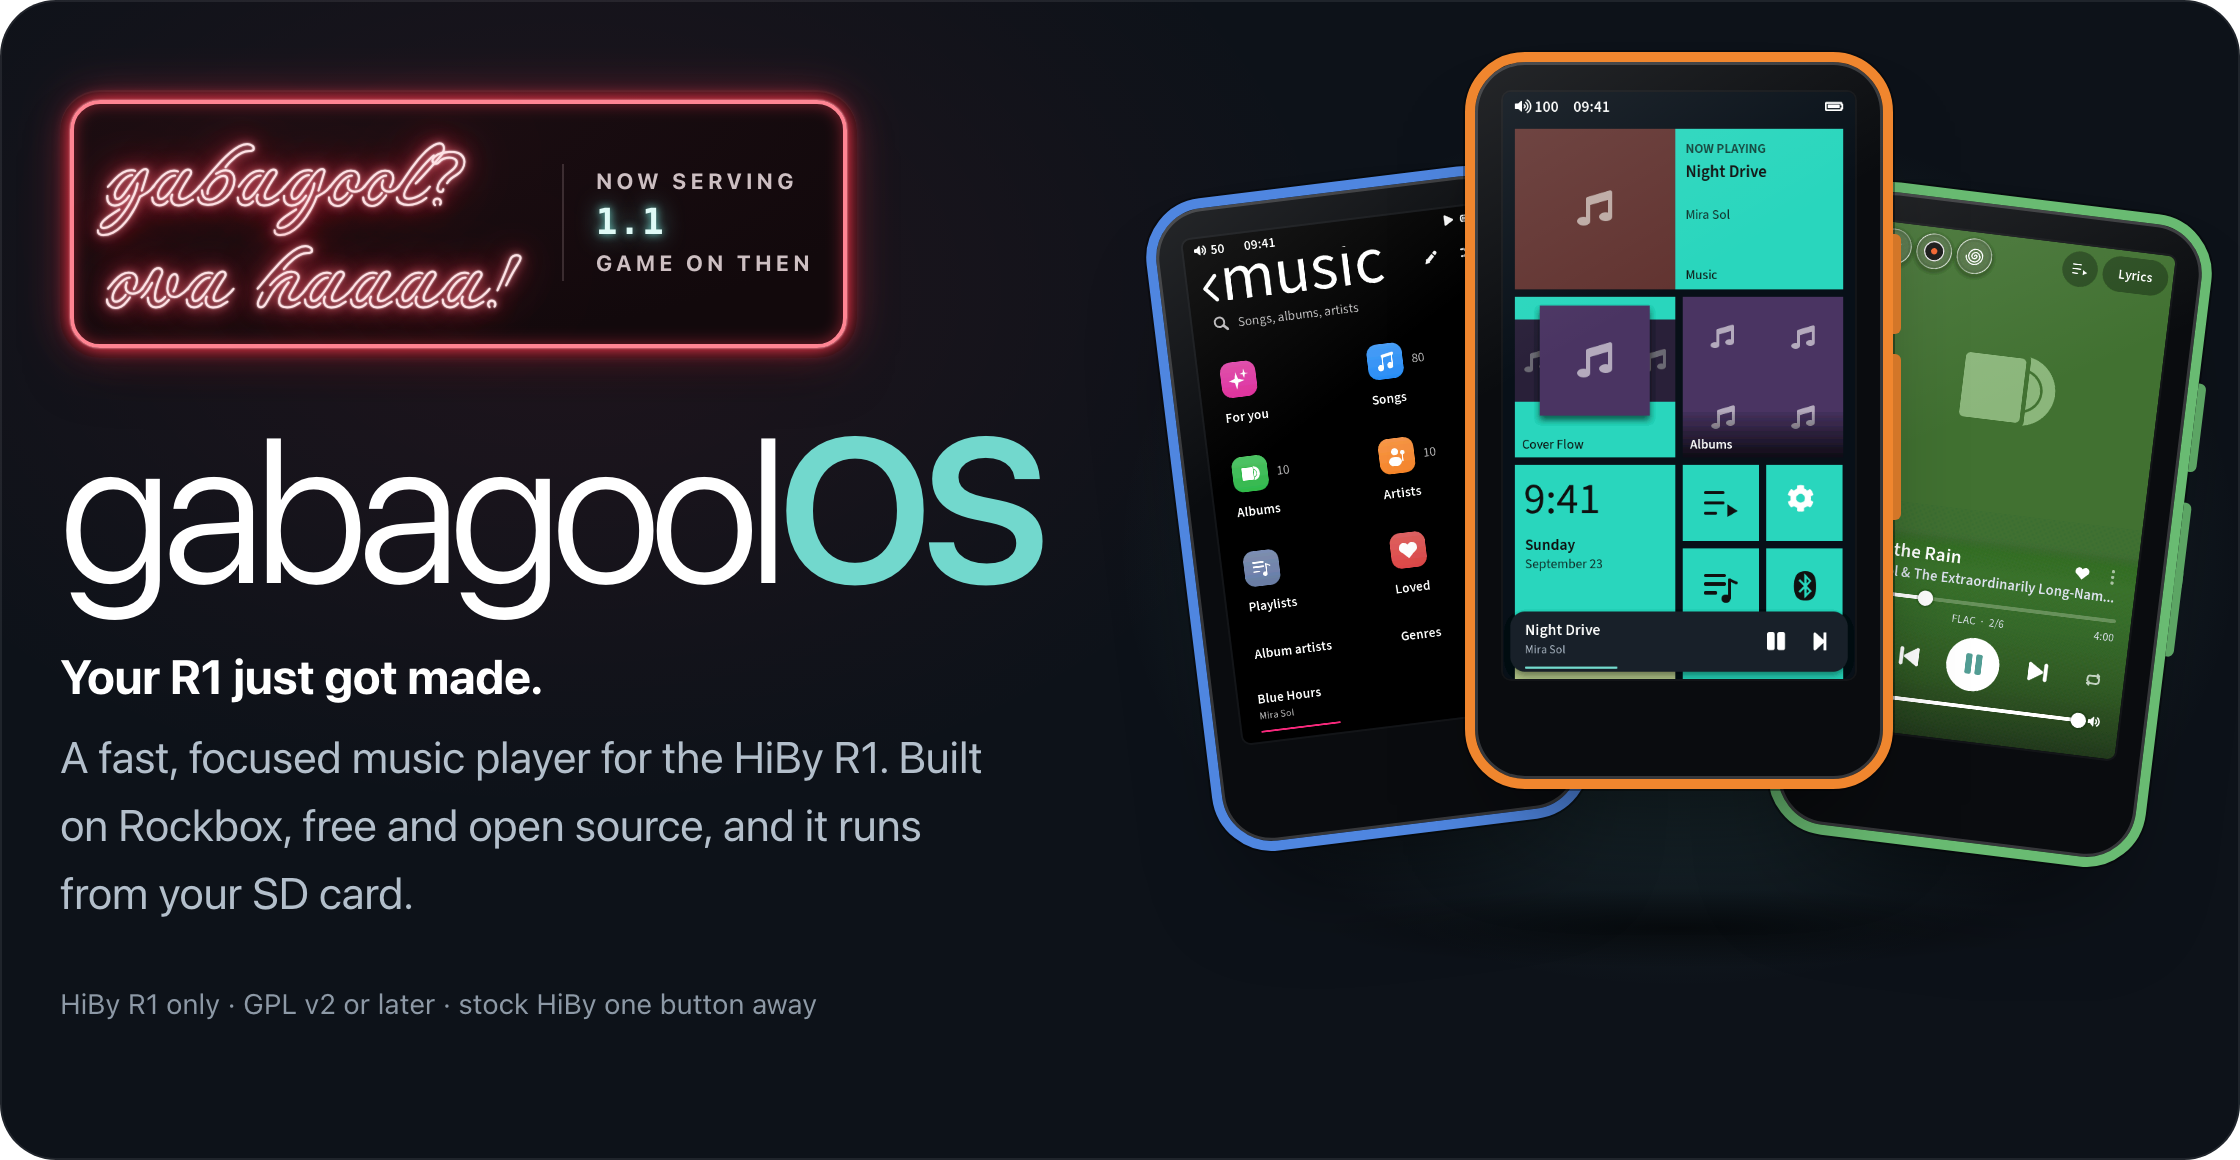
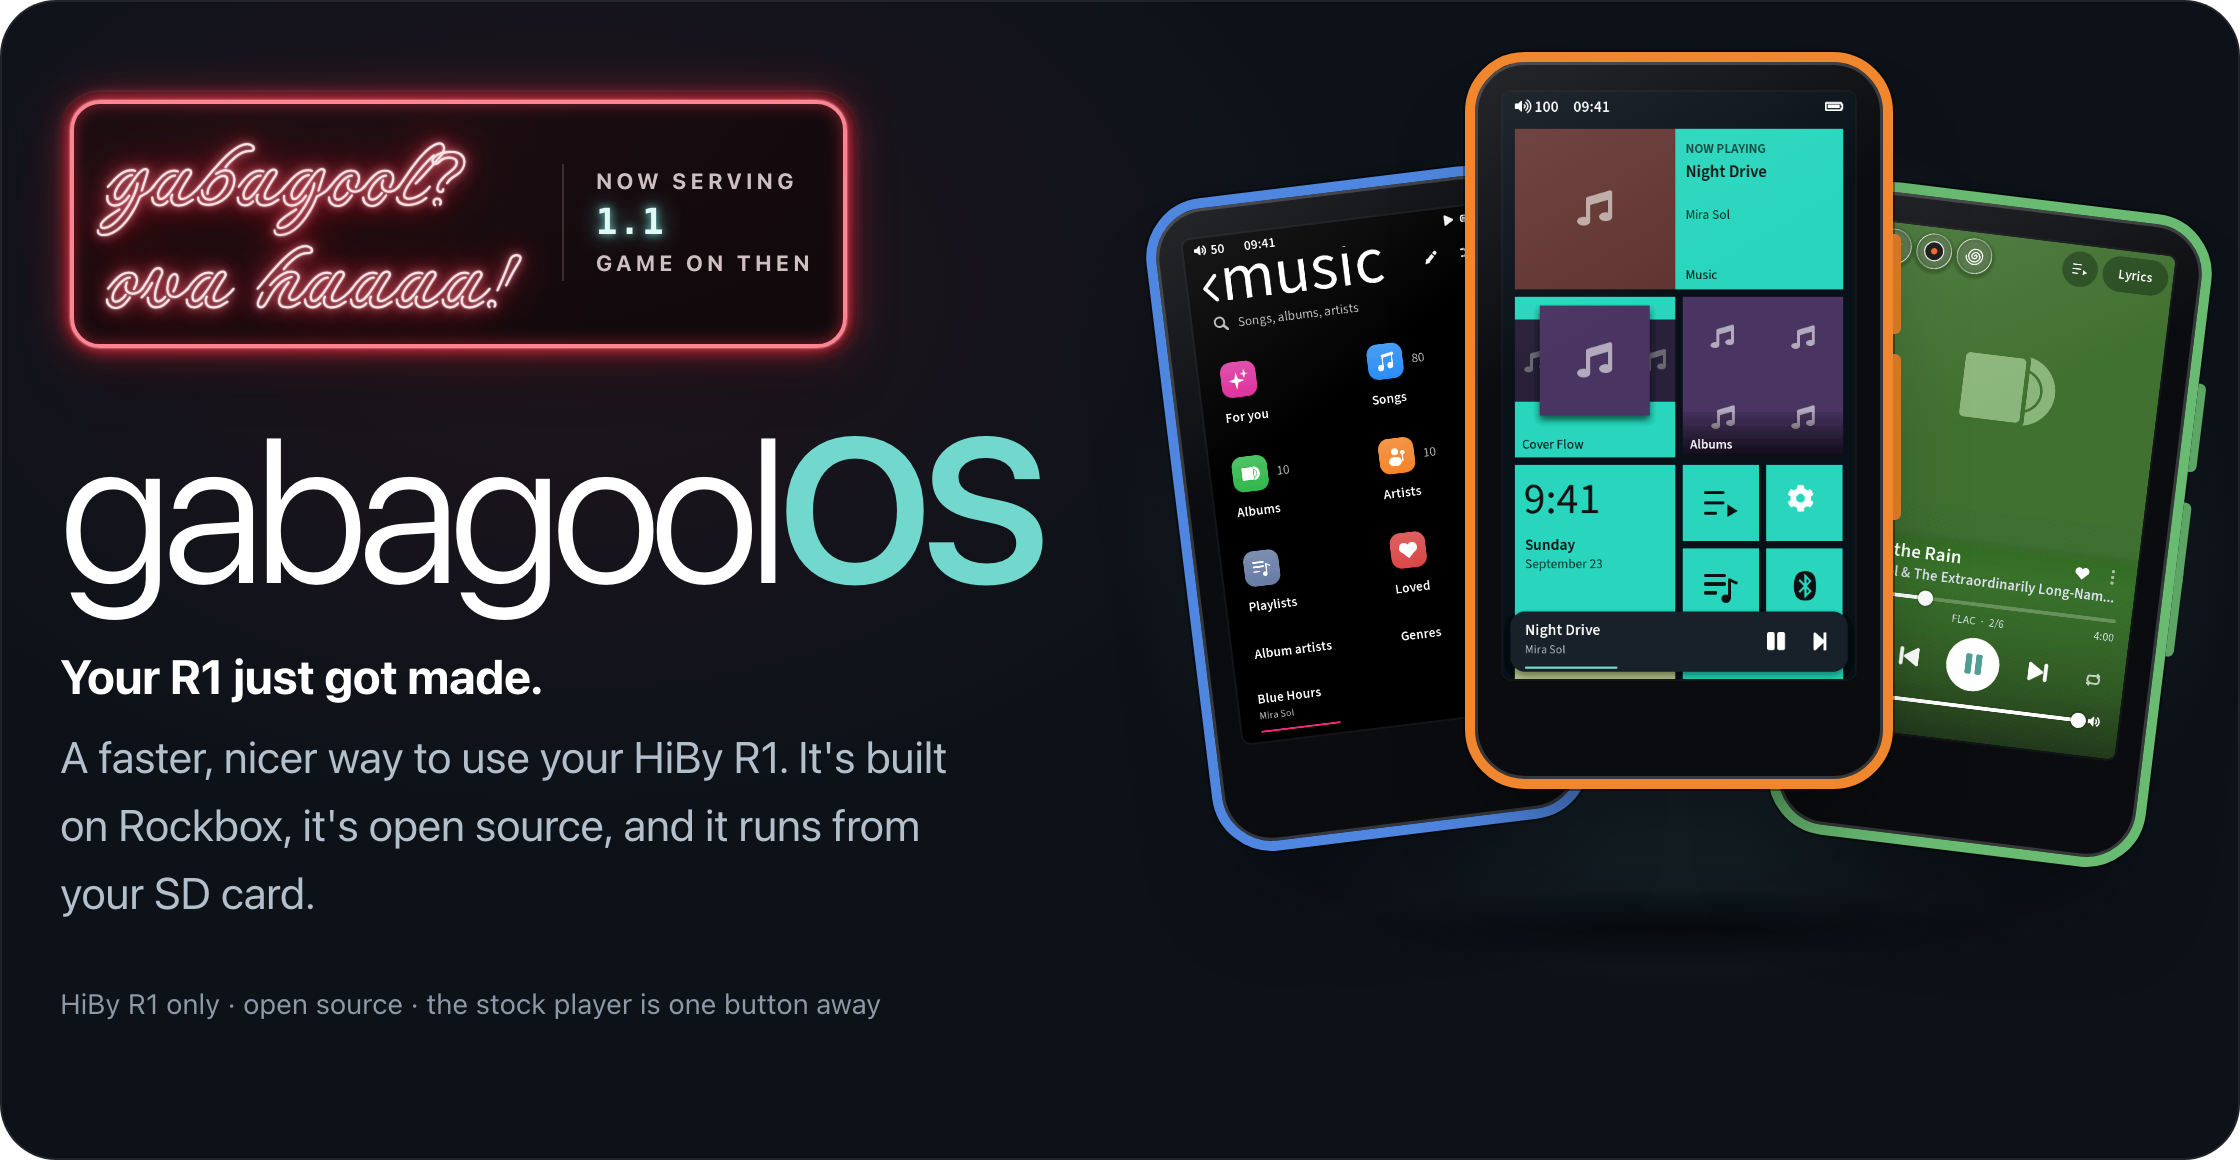
Front page in plainer words: sorting explained, no price, how we test in everyday terms

Changed region(s): [[0.0312, 0.6207, 0.4375, 0.8069], [0.0938, 0.8379, 0.375, 0.9]]

diff --git a/README.md b/README.md
@@ -1,7 +1,7 @@
 <a href="https://github.com/BlueDreams666/gabagoolOS/releases/latest">
 <picture>
   <source media="(prefers-color-scheme: dark)" srcset="assets/hero-dark.png">
-  <img src="assets/hero-light.png" width="880" alt="gabagoolOS 1.1, Game on then. A neon sign reads: gabagool? ova haaaa! Your R1 just got made: a fast, focused music player for the HiBy R1, built on Rockbox, free and open source, running from your SD card. Beside it, three R1 screens: the Music page, the Tiles home and Now Playing.">
+  <img src="assets/hero-light.png" width="880" alt="gabagoolOS 1.1, Game on then. A neon sign reads: gabagool? ova haaaa! Your R1 just got made: a faster, nicer way to use your HiBy R1, built on Rockbox, open source, running from your SD card. Beside it, three R1s showing the Music page, the Tiles home and Now Playing.">
 </picture>
 </a>
 
@@ -9,30 +9,32 @@
 [How to install](#no-funny-business) &nbsp;·&nbsp;
 [Questions](#you-got-questions)
 
-GabagoolOS replaces the R1's screens with its own: a tile, card or list home, a
-library that stays smooth at tens of thousands of songs, Now Playing with synced
-lyrics, a parametric equalizer with AutoEq, internet radio, podcasts,
-audiobooks, e-books, your own Navidrome or Audiobookshelf server, Bluetooth and
-AirPlay. It runs from the SD card, never changes your music, and the stock HiBy
-player stays one button away.
+We love the HiBy R1. It's tiny, it sounds great, and it was cheap. The software
+it ships with, less so. So we made our own.
+
+GabagoolOS gives the R1 a new interface from top to bottom. Your library stays
+smooth even with tens of thousands of songs, lyrics scroll along with the music,
+and there's a proper equalizer, internet radio, podcasts, audiobooks and e-books.
+It runs from the SD card and never touches your music files. If you ever want the
+stock HiBy player back, it's one button away.
 
 ## made fresh daily
 
-Everything you reach for on a music player, made quick and calm.
+The stuff you use every day, made fast and easy to get to.
 
 <picture>
   <source media="(prefers-color-scheme: dark)" srcset="assets/fresh-dark.png">
-  <img src="assets/fresh-light.png" width="880" alt="Eleven features. Library: smooth with tens of thousands of songs, sorting that skips The and puts 2 before 10, Genres and Years, a heading per disc, an A to Z rail. Lyrics: synced, from your files or LRCLIB, over the blurred cover. Sound: a 10-band parametric EQ, any filter in any band, AutoEq by headphone name. Radio: thousands of stations from radio-browser, and podcasts from any feed. Audiobooks: chapters, bookmarks, per-book speed, Audiobookshelf sync, and an EPUB reader. Wireless: Bluetooth out and in, AirPlay, DLNA, your Navidrome server, Wi-Fi transfer, a phone remote. Keyboard: glide typing in 12 languages, pinyin, an interface in 7 languages with right to left. Now Playing: love, repeat and shuffle, a sample-rate badge. Buttons: hold to seek, press twice for an action, a sleep timer one tap away. Your look: Dark, Light, True dark and Zule, tiles, cards or list home, any accent colour.">
+  <img src="assets/fresh-light.png" width="880" alt="Ten features. Library: stays smooth with tens of thousands of songs; The Beatles file under B, track 2 comes before track 10, and an A to Z rail shows where you are. Lyrics: lines light up as the song plays, from your own files or downloaded. Sound: a 10-band equalizer, or a ready-made profile for your headphones. Radio: thousands of stations, and podcasts from any feed. Audiobooks: chapters, bookmarks, a speed for each book, Audiobookshelf sync, and an e-book reader. Wireless: Bluetooth, AirPlay, your own Navidrome server, Wi-Fi file transfer, and your phone as a remote. Keyboard: glide typing in 12 languages, and the whole thing in 7. Now Playing: love, shuffle and repeat, the file's quality, the time and battery. Buttons: hold to skip through a song, press twice for a shortcut, a sleep timer one tap away. Your look: Dark, Light, True dark or Zule, a tile, card or list home, any accent colour.">
 </picture>
 
 <picture>
   <source media="(prefers-color-scheme: dark)" srcset="assets/menu-dark.png">
-  <img src="assets/menu-light.png" width="880" alt="Sliced thin, a menu board. Sorting: skips The, puts 2 before 10. Lyrics: .lrc files, tags or LRCLIB. Equalizer: 10 bands, any filter in any band. EQ files: AutoEq and the HiBy Music app. Radio: reconnects a dropped station. Audiobooks: a speed for each book. Sleep timer: remembers its length. Remote: any browser on your phone. Homes: tiles, cards or list. Themes: four, with any accent. Languages: 7 for the screens, 12 for typing. Price: free, always.">
+  <img src="assets/menu-light.png" width="880" alt="Sliced thin, a menu board of the little things. Sorting: The Beatles under B, track 2 before 10. Lyrics: from .lrc files, tags or online. Equalizer: 10 bands, shaped any way. EQ presets: AutoEq and HiBy Music files. Radio: picks a dropped station back up. Audiobooks: its own speed for every book. Sleep timer: remembers how long you like. Remote: your phone's browser. Homes: tiles, cards or a list. Themes: four, in any accent colour. Languages: 7 on screen, 12 to type in. Key lock: Volume down and Power.">
 </picture>
 
-On the side, if you want them: 2048, Sudoku, 24 Points, Snake, chess, a pocket
-pet, a music quiz, and Doom and Game Boy games in the Arcade (bring your own
-cartridges). None of it runs unless you open it, and you can hide any of it.
+There are games too, if you want them: 2048, Sudoku, Snake, chess, a little pet,
+a music quiz, and Doom and Game Boy games (bring your own cartridges). None of it
+runs unless you open it, and you can hide all of it.
 
 ## the house special
 
@@ -40,10 +42,10 @@ cartridges). None of it runs unless you open it, and you can hide any of it.
 
 ## today's specials
 
-New in 1.1: a deck that learns your taste, a waveform to seek by, podcasts,
-your own Navidrome or Subsonic server, an e-book reader, Audiobookshelf sync,
-Last.fm scrobbling, a control centre you arrange yourself, and a phone remote
-that pairs with a code.
+What's new in 1.1. Swipe through songs and it figures out what you like. See
+the whole song as a waveform and jump anywhere in it. Podcasts, e-books, your own
+Navidrome or Audiobookshelf server, Last.fm scrobbling, a control centre you can
+rearrange, and a phone remote that pairs with a code.
 
 <picture>
   <source media="(prefers-color-scheme: dark)" srcset="assets/case-new-dark.png">
@@ -52,8 +54,8 @@ that pairs with a code.
 
 ## from the display case
 
-Every picture here is a real GabagoolOS screen at the R1's 480 × 800, saved by
-its own test harness. No mock-ups. The covers are the harness's plain test art.
+These are real screens, not mock-ups. Each one is captured at the R1's own
+480 × 800 by the same tool we test with.
 
 <picture>
   <source media="(prefers-color-scheme: dark)" srcset="assets/case-homes-dark.png">
@@ -72,37 +74,36 @@ its own test harness. No mock-ups. The covers are the harness's plain test art.
 
 ## we keep the books
 
-Built with AI help, and checked the boring way, on two R1s in daily use.
+We built it with AI help, so we test it hard. And we use it every day on our own two R1s.
 
 <picture>
   <source media="(prefers-color-scheme: dark)" srcset="assets/books-dark.png">
-  <img src="assets/books-light.png" width="880" alt="The checks. 32,256 screens checked in 196 combinations of theme, language and text size, with zero clipped, overlapping, too-faint or too-small items. Fuzzing: random taps, swipes and keys across every screen, many seeds. ASan: the whole interface run under AddressSanitizer. DSP proofs: the new equalizer checked against Rockbox's original filters at four sample rates.">
+  <img src="assets/books-light.png" width="880" alt="How we check it. 32,256 screens checked in every theme, language and text size, with nothing cut off, overlapping, too faint or too small to tap. Monkey tests: thousands of random taps, swipes and button presses on every screen. Memory checks: the whole interface run under a memory checker. EQ maths: the equalizer checked against Rockbox's original filters at four sample rates.">
 </picture>
 
 ## no funny business
 
-The full guide, with every step and what each file does, is in the README that
-comes with [each release](https://github.com/BlueDreams666/gabagoolOS/releases/latest).
-Read it before you flash anything. In short:
+Each [release](https://github.com/BlueDreams666/gabagoolOS/releases/latest)
+comes with a full guide that explains every step and every file. Please read it
+before you flash anything. The short version:
 
-1. **Get ready.** Charge to 50%, back up the card, and download HiBy's official
-   R1 firmware from HiBy's help centre. That file is your way back.
-2. **Boot menu, once.** Move any other `.upt` files off the card. Copy
-   `GabagoolOS-1.1-boot-menu.upt` to the card root as `r1.upt`, then in the HiBy
-   player run System > Firmware update > Via SD card.
-3. **Copy GabagoolOS.** Unzip `GabagoolOS-1.1-HiBy-R1.zip` onto the card root (it
-   adds a hidden `.rockbox` folder and a `Games` folder) and restart.
+1. **Get ready.** Charge to at least 50% and back up your card. Download HiBy's
+   official R1 firmware from their help centre too. That's your way back.
+2. **Install the boot menu (just once).** Move any other `.upt` files off the
+   card. Copy `GabagoolOS-1.1-boot-menu.upt` to the top of the card and rename it
+   `r1.upt`. Then, in the HiBy player, go to System > Firmware update > Via SD card.
+3. **Copy GabagoolOS over.** Unzip `GabagoolOS-1.1-HiBy-R1.zip` onto the top of
+   the card (you'll get a hidden `.rockbox` folder and a `Games` folder), then restart.
 
-The R1 then starts straight into GabagoolOS. **Hold Volume Down while you power
-on** to choose the HiBy player instead.
+From then on the R1 starts straight into GabagoolOS. To use the HiBy player
+instead, **hold Volume Down while you turn it on**.
 
 ### changed your mind? forget about it
 
-1. Copy HiBy's official 2.0 or 1.6 file to the card root as `r1.upt`.
-2. Hold Volume Down at power-on, open the HiBy player, and run
+1. Copy HiBy's official 2.0 or 1.6 firmware to the top of the card as `r1.upt`.
+2. Hold Volume Down while you turn the R1 on, open the HiBy player, and go to
    System > Firmware update > Via SD card.
-3. Delete the `.rockbox` folder if you want the space back. Your music is never
-   touched.
+3. Delete the `.rockbox` folder if you want the space back. Your music stays put.
 
 ## you got questions?
 
@@ -110,33 +111,32 @@ on** to choose the HiBy player instead.
 <summary><b>Is it Rockbox?</b></summary>
 <br>
 
-It is built on [Rockbox](https://www.rockbox.org), the open-source player
-firmware that has run on music players for over twenty years. Rockbox does the
-playback, codecs, DSP and database. GabagoolOS is a new touch interface on top,
-drawn with LVGL, plus R1 device work, starting from WillNHT's R1 fork and
-bahusoid's Audiobook Mod. It is GPL v2 or later, like Rockbox.
+Underneath, yes. [Rockbox](https://www.rockbox.org) has been running on music
+players for over twenty years, and it still does the playback, the file formats,
+the sound processing and the library. GabagoolOS is the touch interface on top,
+plus a lot of R1-specific work. We started from WillNHT's R1 port and bahusoid's
+Audiobook Mod. Same licence as Rockbox: GPL v2 or later.
 </details>
 
 <details>
 <summary><b>Was it made with AI?</b></summary>
 <br>
 
-Yes. GabagoolOS was written with a lot of help from AI coding tools,
-directed, reviewed and tested by people on real R1s in daily use. We'd rather say
-so than have you guess. What matters is whether it works, so it is tested the
-boring way:
+Yes, a lot of it. We decided what to build, reviewed it, and tested it on our
+own R1s every day. We'd rather tell you than have you wonder. What matters is
+whether it works, so here's how we check:
 
-- **A screen audit.** A harness drives every screen in every theme, language and
-  text size, 32,256 screens in 196 combinations, and fails on anything clipped,
-  overlapping, too faint or too small to tap. The current count is zero.
-- **Fuzzing.** Random taps, swipes and key presses across every screen, many
-  seeds, looking for crashes and hangs.
-- **AddressSanitizer.** The whole interface runs under ASan to catch memory
-  errors before they reach a player.
-- **DSP proofs.** The new equalizer is checked numerically against Rockbox's
-  original filters and a double-precision reference at four sample rates.
+- **Every screen, every way.** A tool opens all 32,256 combinations of screen,
+  theme, language and text size and flags anything cut off, overlapping, too
+  faint or too small to tap. Right now it finds nothing.
+- **Monkey tests.** Thousands of random taps, swipes and button presses on every
+  screen, looking for crashes and freezes.
+- **Memory checks.** The whole interface runs under a memory checker
+  (AddressSanitizer), so memory bugs get caught on a Mac, not on your player.
+- **EQ maths.** The equalizer is checked against Rockbox's original filters at
+  four sample rates.
 
-The code will be here for anyone to read.
+All the code will be here for anyone to read.
 </details>
 
 <details>
@@ -151,32 +151,35 @@ tile on the Tiles home. Ova haaaa!
 <summary><b>Is it safe to install?</b></summary>
 <br>
 
-GabagoolOS itself lives on the SD card, in a `.rockbox` folder, and doesn't
-write to the R1's internal memory. The boot menu is HiBy's own firmware 2.0
-update with three small additions (the boot menu, a script that mounts the card,
-and a boot logo). Like any official update it holds only the kernel, byte for
-byte HiBy's, and the system image. There is no recovery or bootloader image in
-it, and HiBy's own updater installs it. While the R1 is plugged into a computer
-in USB mode, GabagoolOS writes nothing to the card. Updates on the player only
-install if they carry the release signature. Flashing firmware always carries
-some risk, so keep HiBy's official file to hand.
+As safe as flashing firmware gets. GabagoolOS lives on the SD card in a
+`.rockbox` folder and never writes to the R1's internal memory. The boot menu is
+HiBy's own 2.0 update with three small things added: the menu itself, a script
+that mounts the card, and a boot logo. The kernel inside is HiBy's, byte for
+byte, there's no bootloader or recovery image in it, and HiBy's own updater
+installs it.
+
+A few more things we were careful about. While the R1 is plugged into a computer,
+GabagoolOS doesn't write to the card at all. Updates on the player only install
+if they're signed by us. Still, flashing always carries some risk, so keep HiBy's
+official file somewhere safe.
 </details>
 
 <details>
 <summary><b>Which players does it support?</b></summary>
 <br>
 
-The HiBy R1 only. It is made for the R1's 480 × 800 screen, its buttons and its
-hardware. Newer R1s with the AIC8800 wireless chip are supported through HiBy
-2.0's own drivers; that path hasn't yet run on one of those units, so reports
-are welcome. Playback and everything else don't depend on the wireless chip.
+Just the HiBy R1. It's made for the R1's screen, buttons and hardware. Newer
+R1s have a different wireless chip (the AIC8800). They should work through
+HiBy 2.0's own drivers, but we haven't had one to try yet. If you have one,
+please tell us how it goes. Everything apart from Wi-Fi and Bluetooth works the
+same either way.
 </details>
 
 <details>
 <summary><b>Does it phone home?</b></summary>
 <br>
 
-No. It goes online only when you turn on Wi-Fi and use a feature that needs it:
+No. It only goes online when you turn on Wi-Fi and use something that needs it:
 lyrics (LRCLIB), covers (MusicBrainz and the Cover Art Archive), internet radio
 (radio-browser, and ip-api.com for "near you"), podcasts (Apple's directory and
 the feeds you add), AutoEq profiles (GitHub), scrobbling (Last.fm or
@@ -188,14 +191,15 @@ and the clock (NTP). The phone remote only answers phones you've paired.
 <summary><b>Something went wrong. What should I send?</b></summary>
 <br>
 
-[Open an issue](https://github.com/BlueDreams666/gabagoolOS/issues/new/choose)
-with your R1's HiBy firmware (1.6 or 2.0, shown in the boot menu), the
-GabagoolOS version, and `.rockbox/sloppy/sloppy.log` from the card.
+Sorry about that! [Open an issue](https://github.com/BlueDreams666/gabagoolOS/issues/new/choose)
+and tell us which HiBy firmware you're on (1.6 or 2.0, it's in the boot menu)
+and which GabagoolOS version you have. Attach `.rockbox/sloppy/sloppy.log` from
+the card too. It tells us what the player was doing.
 </details>
 
 ## the family
 
-GabagoolOS stands on the work of many people:
+None of this would exist without these people and projects:
 
 - **[Rockbox](https://www.rockbox.org)** (GPL v2+): playback, codecs, DSP, the
   database, plugins, Doom and the Game Boy core.
